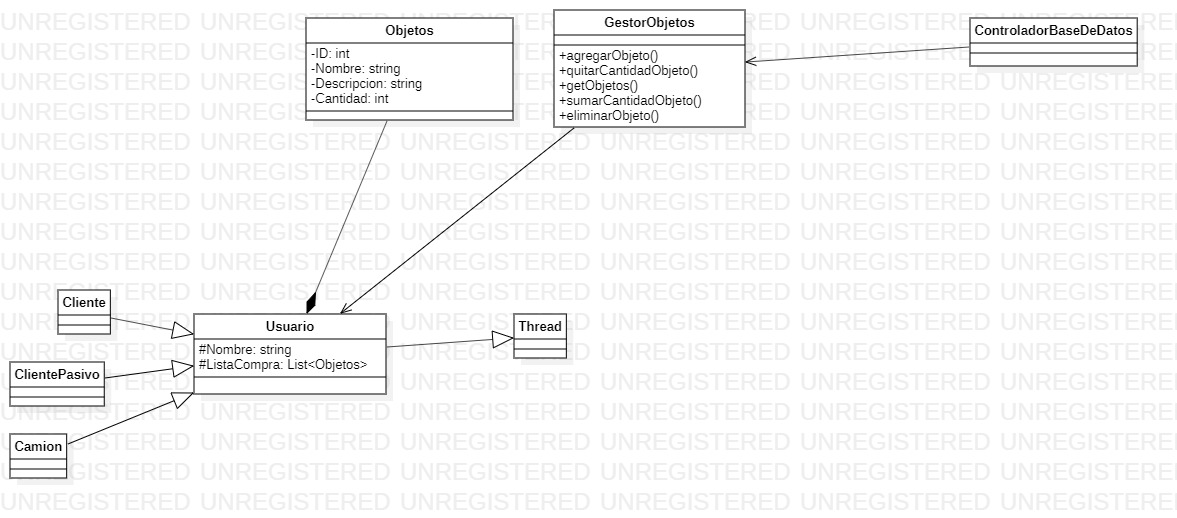
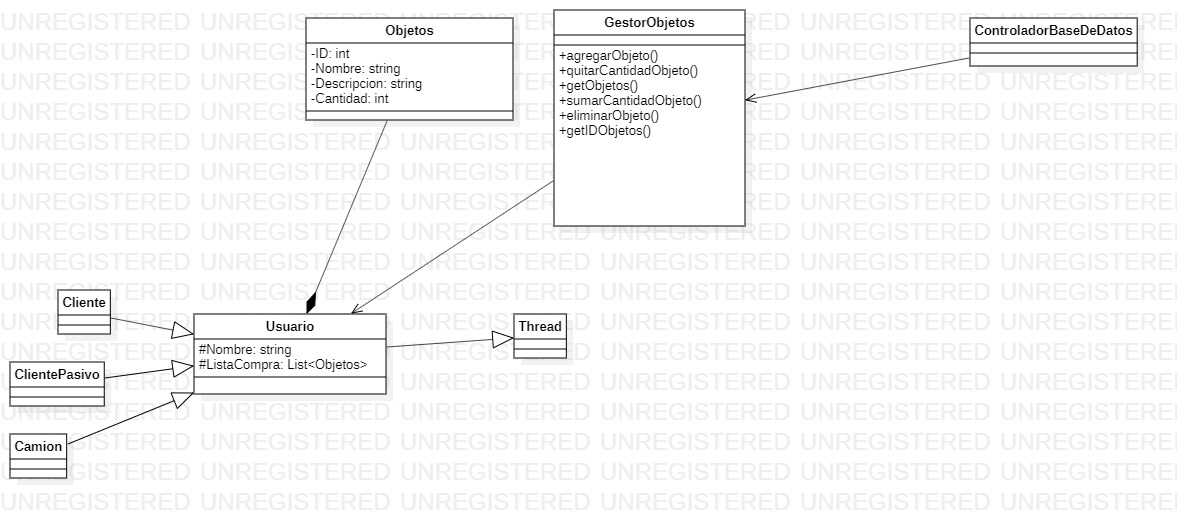
Pato ya puede hablar con la consola ylos thread funcionan

diff --git a/src/threads/Cliente.java b/src/threads/Cliente.java
@@ -1,0 +1,45 @@
+package threads;
+
+import java.util.Scanner;
+
+public class Cliente extends Usuario {
+	Scanner entradaScanner = null;
+	protected Cliente(String nombre) {
+		super(nombre);
+		this.entradaScanner = new Scanner(System.in);
+	}
+	
+	public void ImprimirOpciones() {
+		System.out.print("\n");
+		System.out.println("Help/Ayuda: Panel de controles.");
+		System.out.println("Salir/Exit: Salir de la tienda.");
+	}
+	
+	
+	@Override
+	public void run() {
+		String respuesta = null;
+		boolean continuar = true;
+		System.out.println("Introduce tu nombre: ");
+		this.nombre = this.entradaScanner.nextLine();
+		
+		
+		this.ImprimirOpciones();
+		do
+		{
+			System.out.print("Introduce la accion a realizar: ");
+			respuesta = this.entradaScanner.nextLine();
+			if(respuesta.equalsIgnoreCase("help") || respuesta.equalsIgnoreCase("ayuda"))
+				this.ImprimirOpciones();
+			else if(respuesta.equalsIgnoreCase("salir") || respuesta.equalsIgnoreCase("exit"))
+				continuar = false;
+			else
+			{
+				
+			}
+		}
+		while(continuar);		
+		System.out.println("Usuario " + this.nombre + ".");
+		System.out.println("Gracias por comprar en AWAZON SL.\nEsperamos que vuelva pronto");
+	}
+}

diff --git a/src/threads/ClientePasivo.java b/src/threads/ClientePasivo.java
@@ -1,0 +1,14 @@
+package threads;
+
+public class ClientePasivo extends Usuario {
+	protected ClientePasivo() {
+		super("Cliente random");
+	}
+	@Override
+	public void run() {
+		System.out.println(this.nombre + " ha comenzado a testear");
+		try{ Thread.sleep(10 * 1000); }
+		catch(InterruptedException ie){ ie.printStackTrace(); }  
+		System.out.println(this.nombre + " ha parado de testear");
+	}
+}

diff --git a/src/threads/Camion.java b/src/threads/Camion.java
@@ -1,0 +1,14 @@
+package threads;
+
+public class Camion  extends Usuario {
+	protected Camion() {
+		super("Camion");
+	}
+	@Override
+	public void run() {
+		System.out.println(this.nombre + " ha comenzado a testear");
+		try{ Thread.sleep(2 * 1000); }
+		catch(InterruptedException ie){ ie.printStackTrace(); }  
+		System.out.println(this.nombre + " ha parado de testear");
+	}
+}

diff --git a/src/threads/Usuario.java b/src/threads/Usuario.java
@@ -1,5 +1,16 @@
 package threads;
 
-public class Usuario {
+import java.util.List;
 
+import objetos.Objetos;
+
+public abstract class Usuario extends Thread {
+	protected String nombre = null;
+	protected List<Objetos> listaObjetos = null;
+	public String getNombre() {
+		return this.nombre;
+	}
+	protected Usuario(String nombre) {
+		this.nombre = nombre;
+	}
 }

diff --git a/src/threads/Main.java b/src/threads/Main.java
@@ -1,0 +1,15 @@
+package threads;
+
+public class Main {
+
+	public static void main(String[] args) {
+		Usuario user = new Cliente("User1");
+		//Usuario cli = new ClientePasivo();
+		//Usuario cam = new Camion();
+		
+		user.start();
+		//cli.start();
+		//cam.start();
+	}
+
+}
